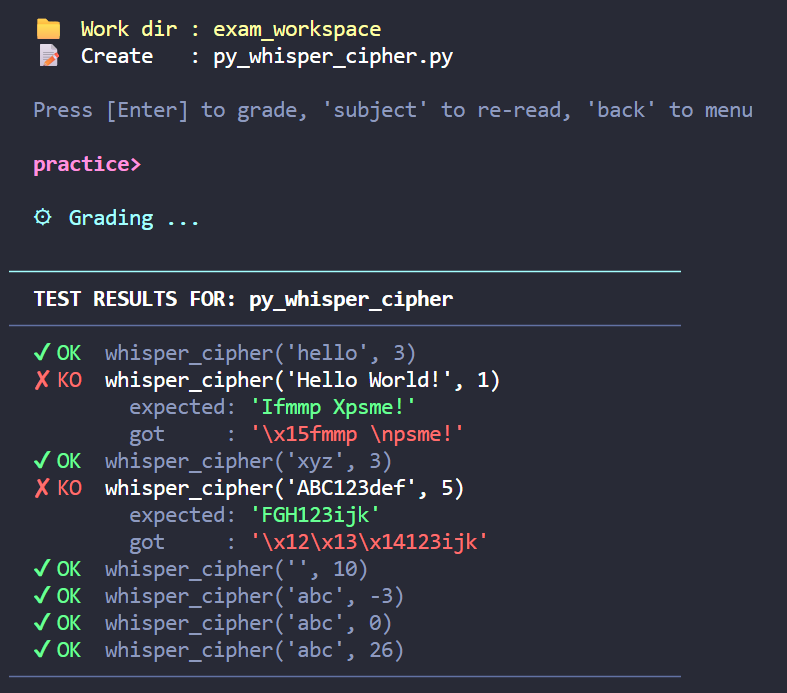
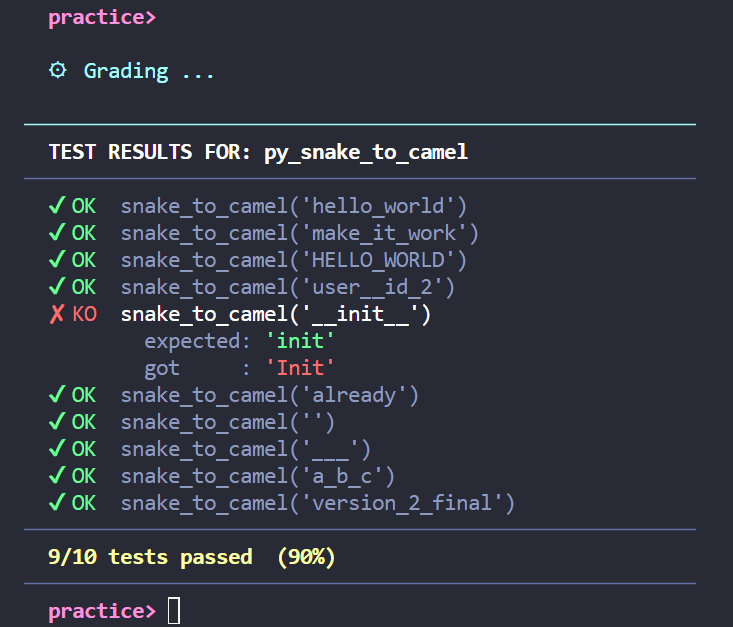
Improving changes to Practice Shell

Changed region(s): [[0.03, 0.0, 0.9604, 1.0], [0.2701, 0.0303, 0.5703, 0.1212], [0.6003, 0.5152, 0.6303, 0.5758]]

diff --git a/practiceshell.py b/practiceshell.py
@@ -359,7 +359,8 @@ def main_menu():
     banner()
     print()
     print(c(C.WHITE,  "  Welcome to the Rank 03 PracticeShell."))
-    print(c(C.GRAY,   "  Practice the Milestone 3 topics with hidden tests and automatic grading."))
+    print(c(C.GRAY,   "  Practice the Milestone 3 topics with hidden tests"))
+    print(c(C.GRAY,   "  and automatic grading."))
     print()
     print(c(C.YELLOW, "  RULES:"))
     print(c(C.GRAY,   "   • You have 3 hours total."))
